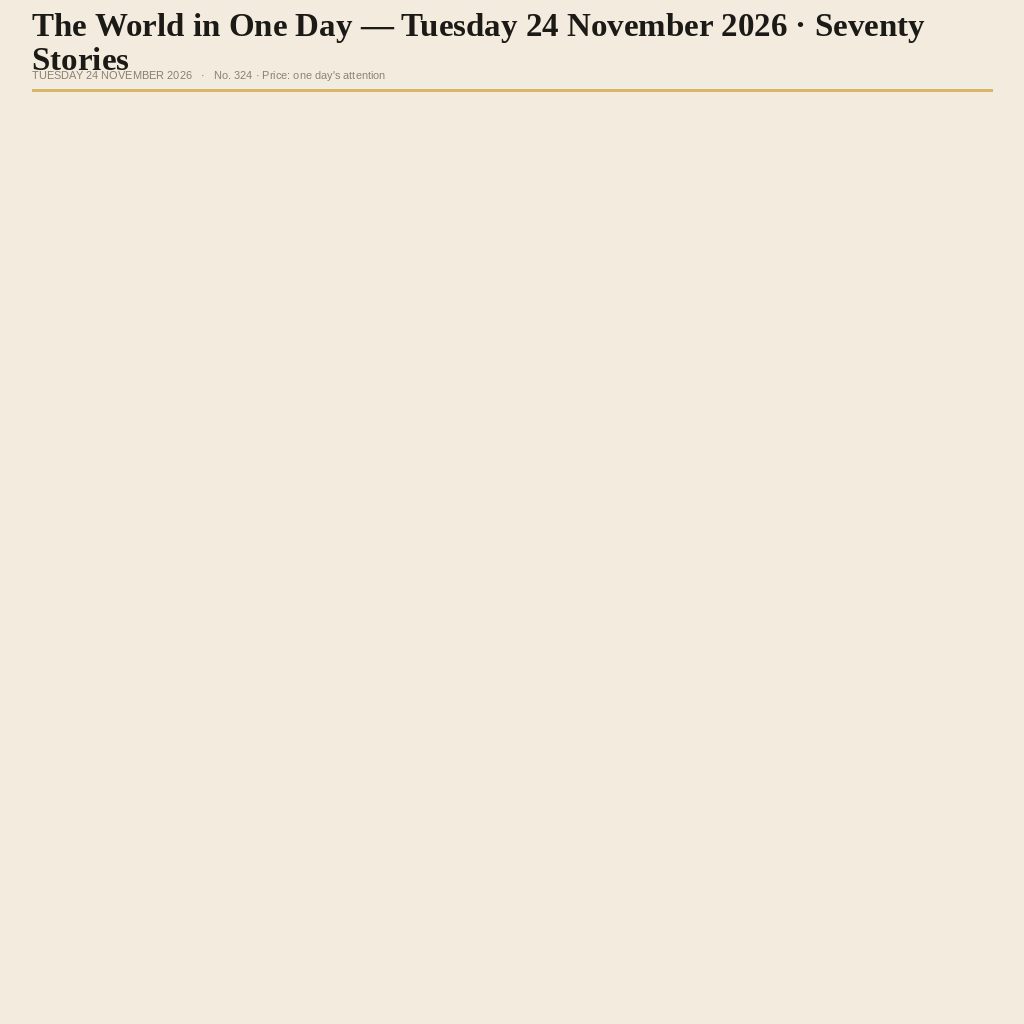
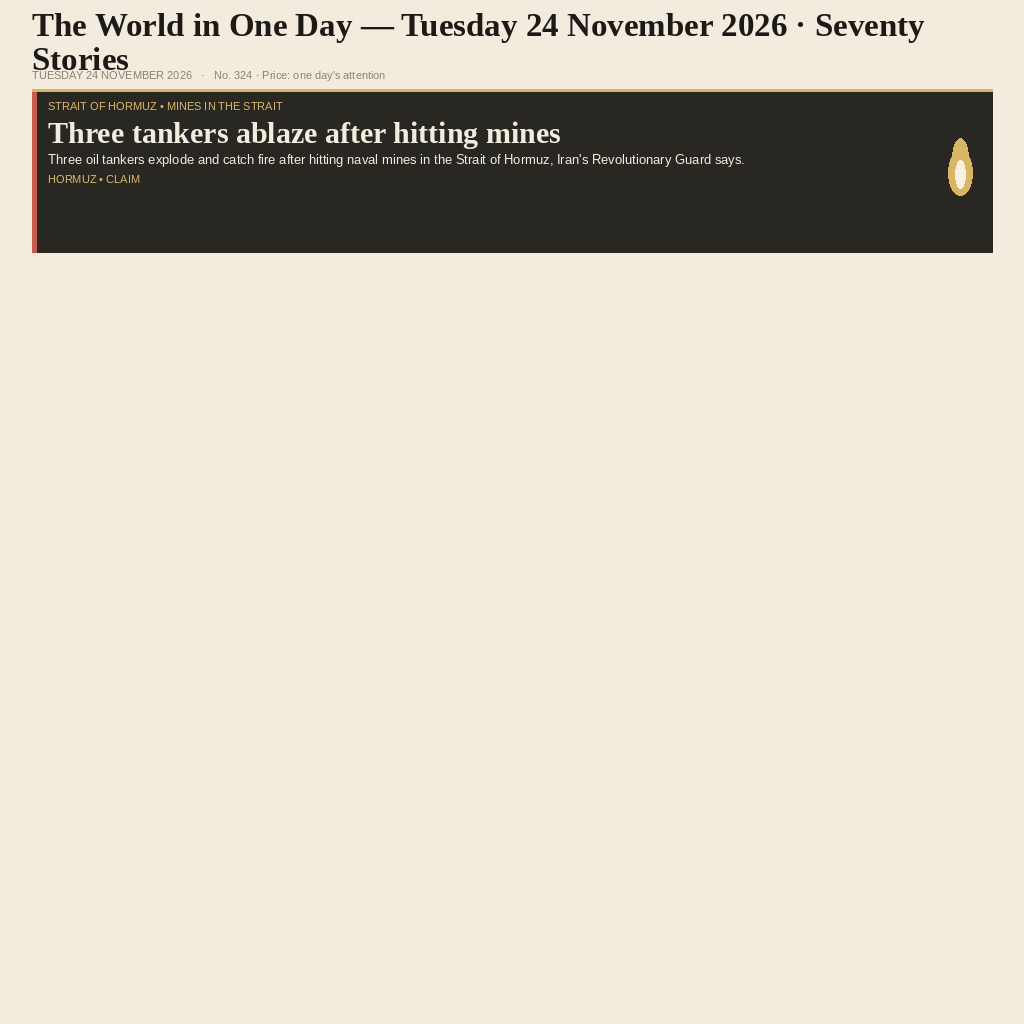
render: lead card

Changed region(s): [[0.0312, 0.0625, 0.9688, 0.25]]

diff --git a/render.py b/render.py
@@ -148,9 +148,36 @@ def draw_masthead(page):
     page.text((32, y_after_title + 2), sub_text, sans_font, MUTED, max_width=960)
     page.card_surface(32, 89, 992, 91, GOLD)
 
+def draw_lead_card(page):
+    import stories
+    c = stories.CARDS[0]
+    page.card_surface(32, 92, 992, 252, CHARCOAL_1)
+    reg_col = region_colour(c.get('region', 'MIDDLE EAST'))
+    page.draw.rectangle([32, 92, 36, 252], fill=reg_col)
+    page.draw.ellipse([948, 150, 972, 195], fill=GOLD)
+    page.draw.ellipse([952, 138, 968, 180], fill=GOLD)
+    page.draw.ellipse([955, 160, 965, 188], fill=IVORY)
+    f_meta = load_font('sans', 11)
+    f_head = load_font('serif_bold', 30)
+    f_deck = load_font('sans', 13)
+    f_src = load_font('sans', 11)
+    place_topic = f"{c['place'].upper()} • {c['topic'].upper()}"
+    headline = c['headline']
+    if page.draw.textbbox((0, 0), headline, font=f_head)[2] > 860:
+        f_head = load_font('serif_bold', 24)
+    y = 100
+    y = page.text((48, y), place_topic, font=f_meta, fill=GOLD)
+    y += 4
+    y = page.text((48, y), headline, font=f_head, fill=CREAM)
+    y += 4
+    y = page.text((48, y), c['deck'], font=f_deck, fill=CREAM, max_width=760)
+    y += 4
+    y = page.text((48, y), f"{c['source'].upper()} • {c['tag'].upper()}", font=f_src, fill=GOLD)
+
 def main():
     page = Page()
     draw_masthead(page)
+    draw_lead_card(page)
     self_check(page)
     page.img.save('/home/hatch/workspace/makefun/entries/news-image-20261124-r1/entry.png')
     print("entry.png saved successfully.")
